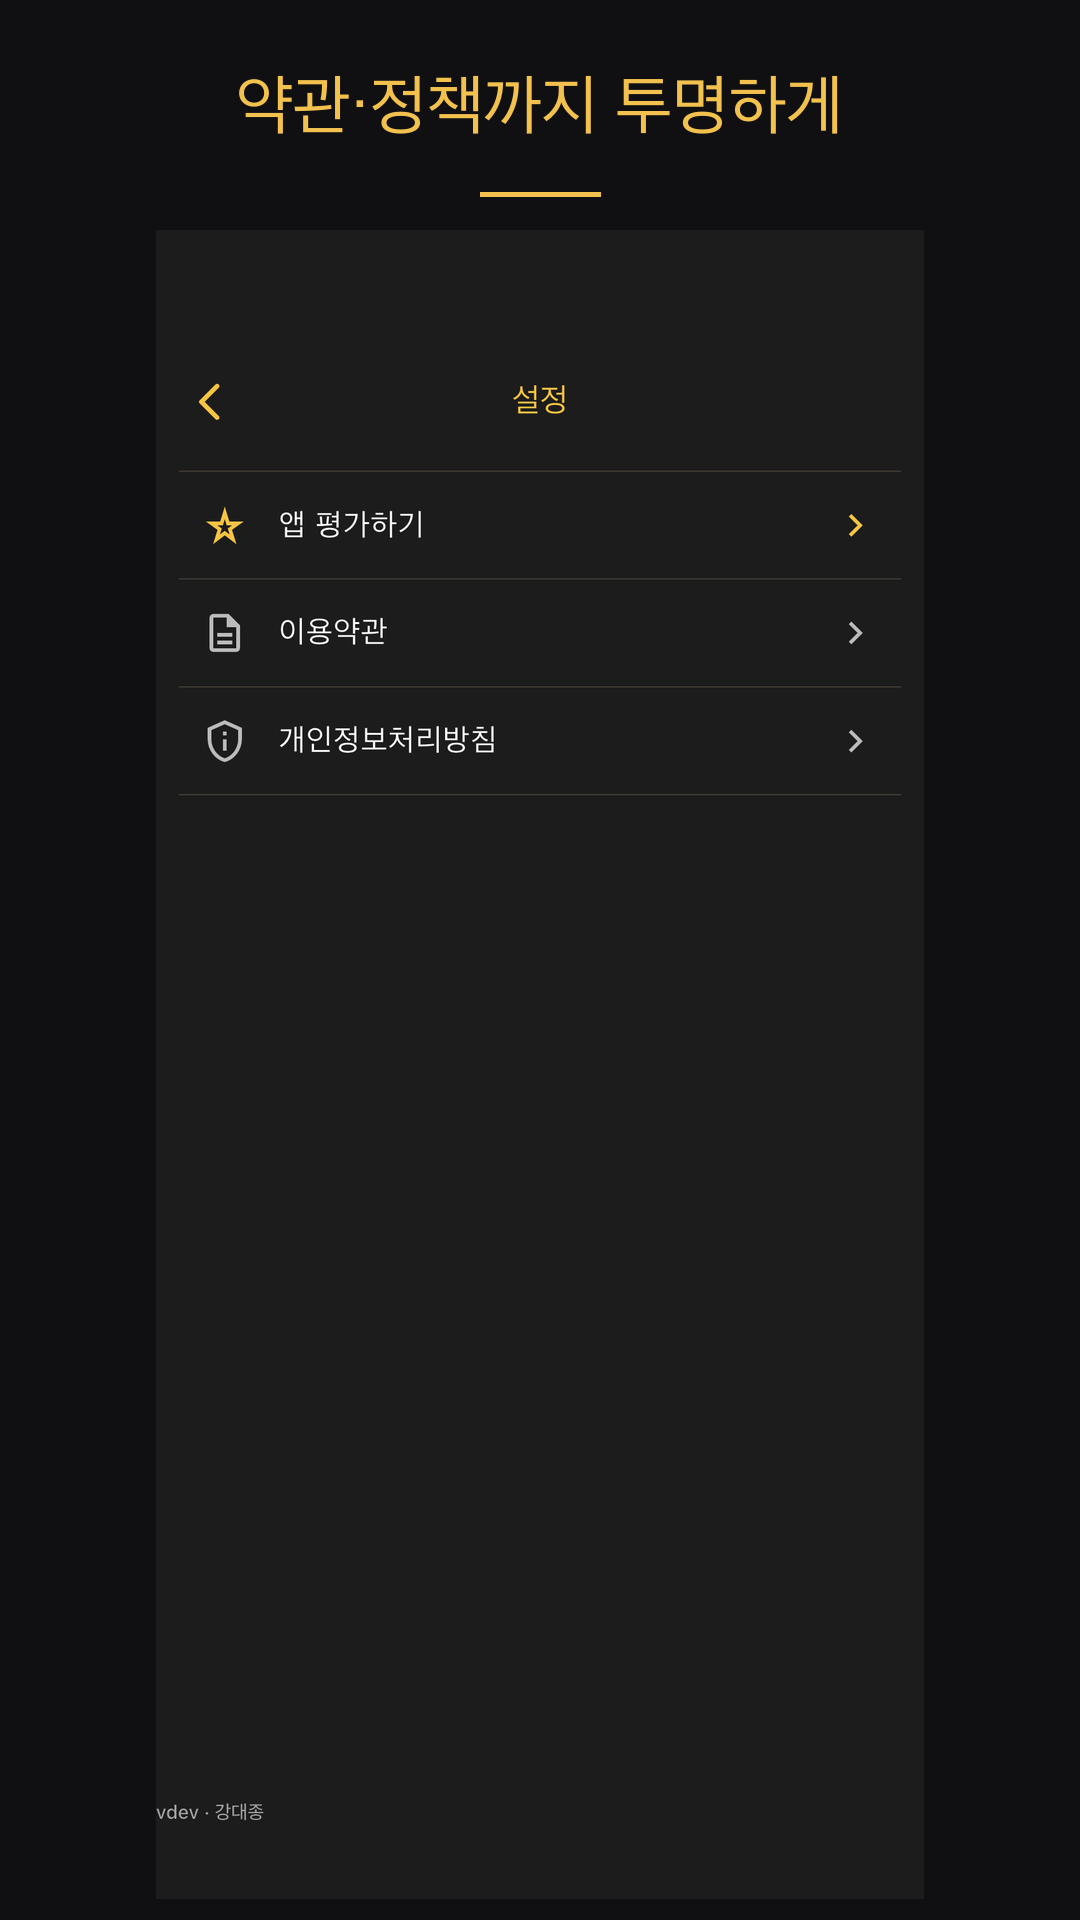
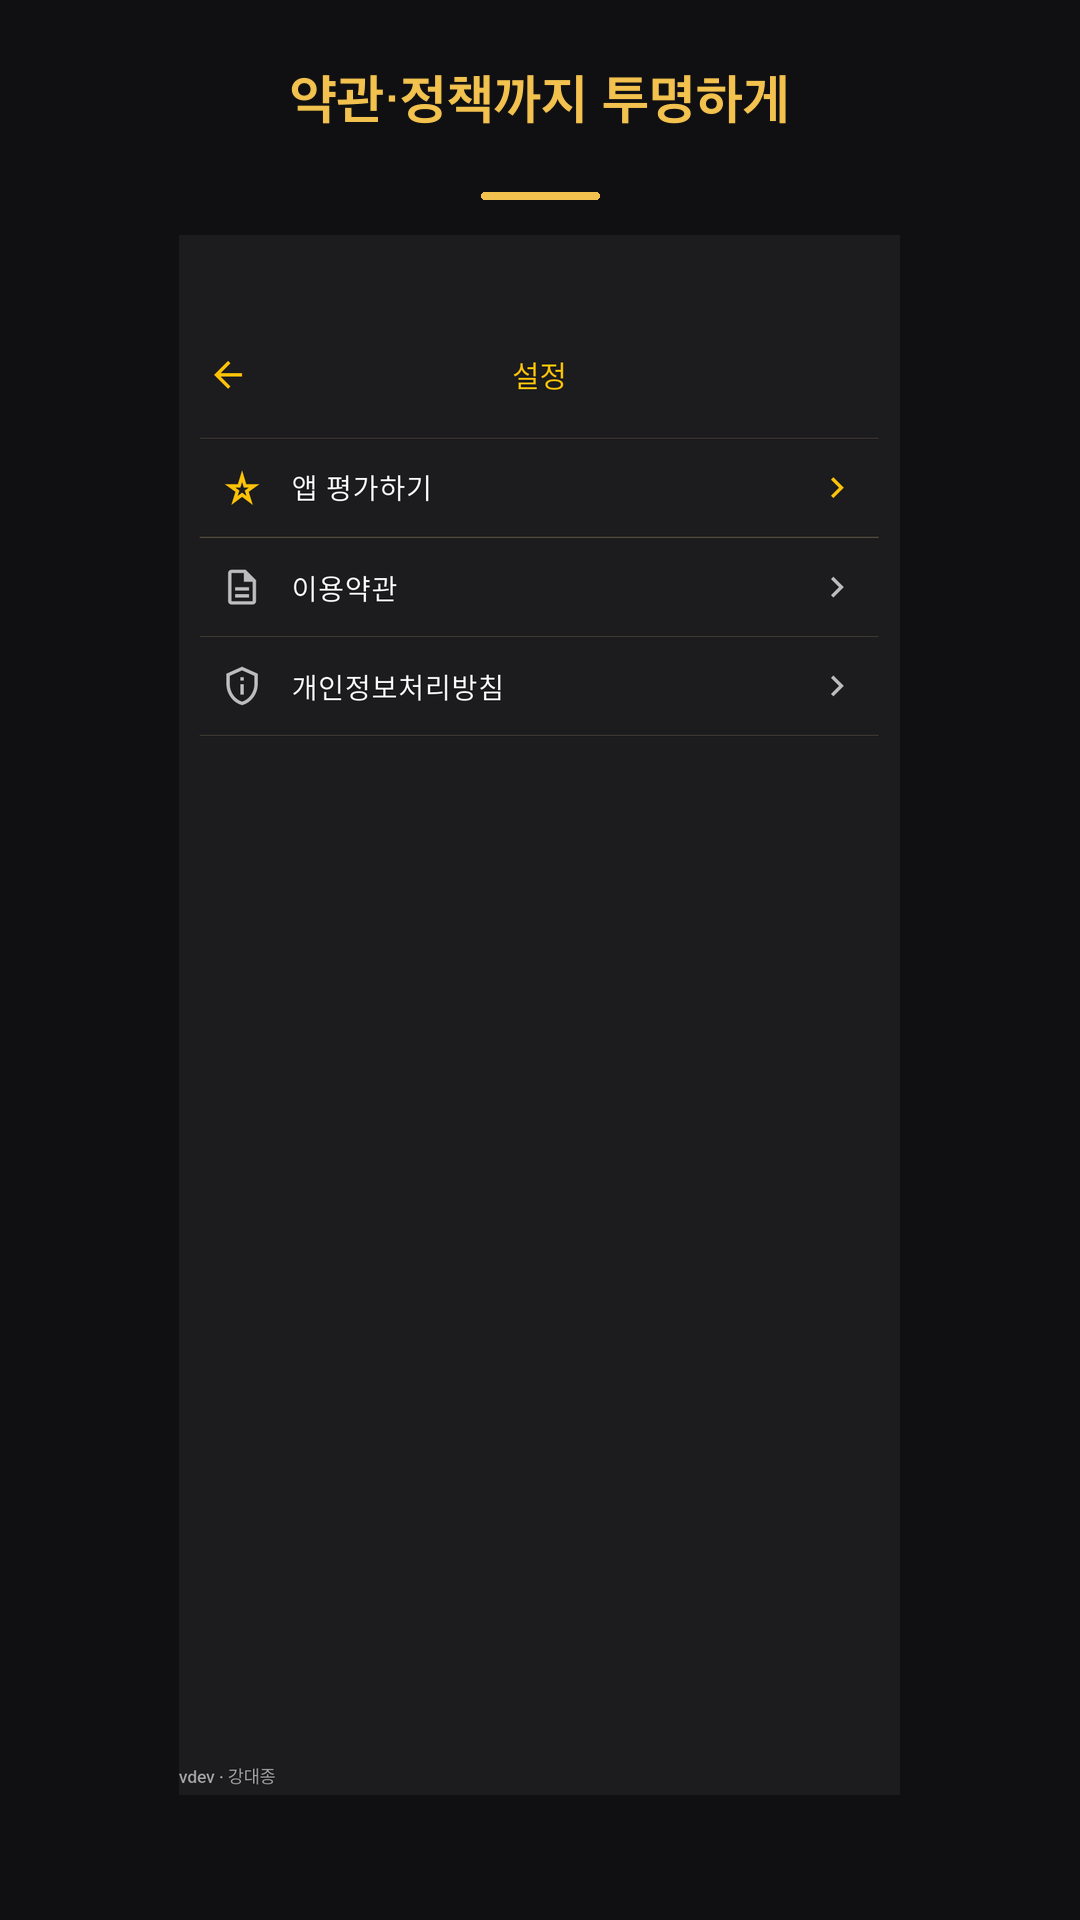
feat(store): 메모요 Play Store 스크린샷 Android 정석 재캡처 + 합성 스크립트
- Android 에뮬(Pixel 7, API 34, arm64) 다크모드 실제 화면으로 4컷 재캡처
  (기존 iOS 시뮬 캡처 대체, iOS raw 는 raw/ios/ 보존)
- scripts/compose_store_screenshots.py: PIL 합성 재현 스크립트 committal
  (raw -> 1080x1920 Play-safe 캔버스 + amber 한글 캡션, 푸터는 앱 워터마크 사용)
- raw/android/ 원본 + README 갱신(재현 절차 Android 기준)

diff --git a/scripts/compose_store_screenshots.py b/scripts/compose_store_screenshots.py
@@ -1,0 +1,106 @@
+#!/usr/bin/env python3
+"""메모요 Play Store 스크린샷 합성 (한글 캡션 헤더 + 레터박스).
+
+integration_test 하니스(screenshot_test.dart)가 부팅된 기기에서 실제 화면을
+build/screenshots/<name>.png 로 캡처한 뒤, 이 스크립트로 1080x1920 Play-safe
+캔버스에 amber 캡션 헤더 + 스크린샷을 합성한다. (목업 합성 X — 실제 렌더 캡처.)
+
+사용:
+  python3 scripts/compose_store_screenshots.py \
+    --raw build/screenshots \
+    --out store/screenshots/ko
+
+하니스 raw 파일명 → 최종 스토어 파일명/캡션 매핑은 SCENES 에 고정.
+"""
+import argparse
+import os
+from PIL import Image, ImageDraw, ImageFont
+
+# Play-safe 캔버스 (≤2:1, 9:16)
+CANVAS = (1080, 1920)
+BG = (16, 16, 18)
+AMBER = (242, 193, 78)
+FONT = "/System/Library/Fonts/AppleSDGothicNeo.ttc"
+FONT_BOLD = 6      # AppleSDGothicNeo Bold
+
+# 스크린샷 배치 (앱 화면 자체에 "vdev · 강대종" 푸터 워터마크가 포함됨 — 합성 시 별도 푸터 X)
+SHOT_TOP = 235
+SHOT_MAX_W = 860
+SHOT_MAX_H = 1560
+# 캡션
+CAP_Y = 100        # 캡션 수직 중심
+CAP_SIZE = 54
+UNDERLINE_Y = 192
+UNDERLINE_W = 118
+UNDERLINE_H = 7
+
+# 하니스 raw 이름 → (최종 파일명, 캡션)
+SCENES = [
+    ("01-main",     "01_dark_main.png",    "어두운 화면, 눈이 편하게"),
+    ("04-edit",     "02_quick_write.png",  "켜자마자 바로 한 줄"),
+    ("02-menu",     "03_drive_backup.png", "한 번에 구글 드라이브 백업"),
+    ("03-settings", "04_settings.png",     "약관·정책까지 투명하게"),
+]
+
+
+def fit(size, max_w, max_h):
+    w, h = size
+    s = min(max_w / w, max_h / h)
+    return int(round(w * s)), int(round(h * s))
+
+
+def compose(raw_path, caption, out_path):
+    canvas = Image.new("RGB", CANVAS, BG)
+    draw = ImageDraw.Draw(canvas)
+
+    cap_font = ImageFont.truetype(FONT, CAP_SIZE, index=FONT_BOLD)
+
+    # 캡션 (가운데 정렬)
+    bbox = draw.textbbox((0, 0), caption, font=cap_font)
+    cw, ch = bbox[2] - bbox[0], bbox[3] - bbox[1]
+    draw.text(((CANVAS[0] - cw) / 2 - bbox[0], CAP_Y - ch / 2 - bbox[1]),
+              caption, font=cap_font, fill=AMBER)
+
+    # 언더라인 (가운데, 라운드)
+    x0 = (CANVAS[0] - UNDERLINE_W) / 2
+    draw.rounded_rectangle(
+        [x0, UNDERLINE_Y, x0 + UNDERLINE_W, UNDERLINE_Y + UNDERLINE_H],
+        radius=UNDERLINE_H / 2, fill=AMBER)
+
+    # 스크린샷 (가운데, 상단정렬, 비율 유지)
+    shot = Image.open(raw_path).convert("RGB")
+    sw, sh = fit(shot.size, SHOT_MAX_W, SHOT_MAX_H)
+    shot = shot.resize((sw, sh), Image.LANCZOS)
+    canvas.paste(shot, ((CANVAS[0] - sw) // 2, SHOT_TOP))
+
+    canvas.save(out_path)
+    return canvas.size
+
+
+def main():
+    ap = argparse.ArgumentParser()
+    ap.add_argument("--raw", default="build/screenshots",
+                    help="하니스 raw 캡처 디렉토리")
+    ap.add_argument("--out", default="store/screenshots/ko",
+                    help="최종 합성본 출력 디렉토리")
+    ap.add_argument("--raw-out", default=None,
+                    help="raw 원본 복사 디렉토리 (옵션)")
+    args = ap.parse_args()
+
+    os.makedirs(args.out, exist_ok=True)
+    if args.raw_out:
+        os.makedirs(args.raw_out, exist_ok=True)
+
+    for raw_name, out_name, caption in SCENES:
+        raw_path = os.path.join(args.raw, raw_name + ".png")
+        if not os.path.exists(raw_path):
+            raise SystemExit(f"raw 없음: {raw_path}")
+        out_path = os.path.join(args.out, out_name)
+        size = compose(raw_path, caption, out_path)
+        print(f"  {out_name}  {size}  <- {raw_name}.png  ({caption})")
+        if args.raw_out:
+            Image.open(raw_path).save(os.path.join(args.raw_out, raw_name + ".png"))
+
+
+if __name__ == "__main__":
+    main()

diff --git a/store/screenshots/ko/README.md b/store/screenshots/ko/README.md
@@ -2,6 +2,8 @@
 
 자동 캡처 + 한글 캡션 합성한 **후보 세트**. (실제 스토어 업로드는 게이트 — 아니키/본진 픽 후)
 
+현재 스토어 후보(`01_dark_main`~`04_settings`)는 **Android 에뮬레이터(Pixel 7, API 34, arm64) 정석 캡처** 기준. (이전 iOS 시뮬 캡처는 `raw/ios/` 에 보존.)
+
 ## 후보 (1080×1920, Play-safe 9:16)
 | 파일 | 기능 | 캡션 |
 |------|------|------|
@@ -10,15 +12,33 @@
 | 03_drive_backup.png | Google Drive 백업 메뉴 | 한 번에 구글 드라이브 백업 |
 | 04_settings.png | 설정(약관·정책·평가) | 약관·정책까지 투명하게 |
 
-`raw/` = 캡션 없는 원본 캡처(1206×2622, iPhone 17 시뮬 실제 화면).
+## raw 원본
+- `raw/android/` = 캡션 없는 Android 원본 캡처(1080×2337, Pixel 7 에뮬 실제 화면) — **현재 후보의 소스**.
+- `raw/ios/` = 이전 iOS 시뮬(iPhone 17) 원본 캡처(1206×2622) — 히스토리 보존.
 
 ## 생성 방법(재현)
-1. integration_test 하니스로 부팅된 시뮬에서 실제 화면 캡처(목업 합성 X):
-   `flutter drive --driver test_driver/integration_test.dart --target integration_test/screenshot_test.dart -d <sim>`
+1. Android 에뮬레이터 준비 (맥미니 M1 = arm64):
+   ```
+   sdkmanager "emulator" "system-images;android-34;google_apis;arm64-v8a"
+   avdmanager create avd -n memoyo_pixel7 \
+     -k "system-images;android-34;google_apis;arm64-v8a" -d pixel_7
+   emulator -avd memoyo_pixel7 -no-window -no-audio -no-boot-anim -gpu swiftshader_indirect
+   adb shell cmd uimode night yes   # 다크모드
+   ```
+2. integration_test 하니스로 부팅된 에뮬에서 실제 화면 캡처(목업 합성 X):
+   ```
+   flutter drive --driver test_driver/integration_test.dart \
+     --target integration_test/screenshot_test.dart -d emulator-5554
+   ```
    → 데모 메모 시드 + 4화면 네비게이션 + takeScreenshot → `build/screenshots/*.png`
-2. `python3 scripts/overlay`(PIL)로 1080×1920 Play-safe 캔버스에 한글 캡션 헤더 + 스크린샷 레터박스 합성.
+3. PIL 합성으로 1080×1920 Play-safe 캔버스에 amber 한글 캡션 헤더 + 스크린샷 레터박스:
+   ```
+   python3 scripts/compose_store_screenshots.py \
+     --raw build/screenshots --out store/screenshots/ko \
+     --raw-out store/screenshots/ko/raw/android
+   ```
 
 ## 주의 / 후속
-- ⚠ 원본(1206×2622)은 비율 1:2.17 로 Play 상한(≤2:1) 초과 → 1080×1920 캔버스 합성으로 해소.
-- 캡처는 **iOS 시뮬(iPhone 17)** — 맥미니에 Android 에뮬/AVD 부재. Play(Android) 정석은 Android 에뮬 캡처이나 Flutter UI 콘텐츠는 동일. Android 프레임 정합이 필요하면 별 작업(에뮬 셋업).
-- 캡션 카피는 후보 — 톤 대안은 보고 참조.
+- ⚠ 원본 비율(1080×2337 = 1:2.16)은 Play 상한(≤2:1)을 살짝 초과 → 1080×1920 캔버스 합성으로 해소.
+- "vdev · 강대종" 푸터는 **앱 화면 자체**에 렌더되는 워터마크 — 합성 스크립트가 별도로 추가하지 않음(이중 방지).
+- 캡션 카피는 기본안 확정.
